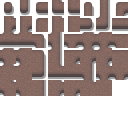
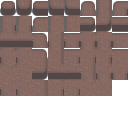
feat(tuning): плотность и размер структур — база уровня, оверрайд переживает рестарты; assets: BOLD-варианты и обновление текстур

diff --git a/src/scenes/GameScene.ts b/src/scenes/GameScene.ts
@@ -200,6 +200,10 @@ export class GameScene extends Phaser.Scene {
   private static readonly DENSITY_MIN = 0;
   private static readonly DENSITY_MAX = 2;
 
+  /** Размер структур (blobScale): линейно 1.5 (1-й, крупнее) → 0.75 (50-й, мельче) */
+  private static readonly BLOB_SCALE_MIN = 0.75;
+  private static readonly BLOB_SCALE_MAX = 1.5;
+
   /** Скорость монстров уровня (линейная прогрессия) */
   static levelSpeed(level: number): number {
     const t = (level - 1) / (GameScene.MAX_LEVEL - 1);
@@ -210,6 +214,12 @@ export class GameScene extends Phaser.Scene {
   static levelDensity(level: number): number {
     const t = (level - 1) / (GameScene.MAX_LEVEL - 1);
     return GameScene.DENSITY_MAX + (GameScene.DENSITY_MIN - GameScene.DENSITY_MAX) * t;
+  }
+
+  /** Размер структур уровня (линейная прогрессия: крупнее → мельче) */
+  static levelBlobScale(level: number): number {
+    const t = (level - 1) / (GameScene.MAX_LEVEL - 1);
+    return GameScene.BLOB_SCALE_MAX + (GameScene.BLOB_SCALE_MIN - GameScene.BLOB_SCALE_MAX) * t;
   }
 
   constructor() {
@@ -281,8 +291,8 @@ export class GameScene extends Phaser.Scene {
     // (влияют на currentLevel, ген-параметры, скорость/размер врагов)
     this.applyStoredTuning();
 
-    // Скорость и плотность задаются уровнем (линейная прогрессия);
-    // сессионные оверрайды из поп-апа поверх — отсутствуют при старте
+    // Скорость задаётся уровнем (линейная прогрессия); плотность — тоже
+    // уровнем, но оверрайд поп-апа восстанавливается из localStorage
     this.applyLevelScaling();
 
     this.totalEnemiesToSpawn = this.currentLevel * GameScene.MONSTERS_PER_LEVEL_STEP;
@@ -1928,7 +1938,8 @@ export class GameScene extends Phaser.Scene {
     );
 
     // --- Параметры генерации уровня: пересборка на лету с тем же seed ---
-    // Плотность по умолчанию задаётся уровнем; степпер — сессионный оверрайд
+    // Плотность по умолчанию задаётся уровнем (база — при смене уровня);
+    // степпер — сессионный оверрайд, переживающий рестарты и перезагрузку
     addRow('Плотность препятствий',
       () => { this.genDensity = Math.max(0, +(this.genDensity - 0.05).toFixed(2)); this.generateLevel(); },
       () => { this.genDensity = Math.min(2, +(this.genDensity + 0.05).toFixed(2)); this.generateLevel(); },
@@ -2097,8 +2108,9 @@ export class GameScene extends Phaser.Scene {
       currentLevel: this.currentLevel,
       maxEnemiesOnScreen: this.maxEnemiesOnScreen,
       enemySize: this.enemySize,
-      // enemySpeed/genDensity НЕ сохраняются: задаются уровнем,
-      // сессионные оверрайды поп-апа живут до перезагрузки страницы
+      // enemySpeed НЕ сохраняется: задаётся уровнем (сессионный оверрайд
+      // поп-апа живёт до перезагрузки страницы); genDensity — сохраняется
+      genDensity: this.genDensity,
       genBlobScale: this.genBlobScale,
       godPower: {
         lightningKillCount: GameConfig.godPower.lightningKillCount,
@@ -2129,7 +2141,19 @@ export class GameScene extends Phaser.Scene {
       this.maxEnemiesOnScreen = Math.min(Math.max(10, snap.maxEnemiesOnScreen), MAX_AGENTS);
     }
     if (typeof snap.enemySize === 'number') this.enemySize = snap.enemySize;
-    if (typeof snap.genBlobScale === 'number') this.genBlobScale = snap.genBlobScale;
+    if (typeof snap.genBlobScale === 'number') {
+      this.genBlobScale = snap.genBlobScale;
+    } else {
+      // Нет сохранённого оверрайда — базовый размер структур уровня
+      this.genBlobScale = GameScene.levelBlobScale(this.currentLevel);
+    }
+    if (typeof snap.genDensity === 'number') {
+      this.genDensity = snap.genDensity;
+    } else {
+      // Нет сохранённого оверрайда — плотность базовой (уровень только
+      // что восстановлен из снимка, см. выше)
+      this.genDensity = GameScene.levelDensity(this.currentLevel);
+    }
 
     if (snap.godPower) {
       if (typeof snap.godPower.lightningKillCount === 'number') {
@@ -2284,6 +2308,10 @@ export class GameScene extends Phaser.Scene {
   /** Выбор уровня в поп-апе: перезапуск с указанного уровня */
   private setLevel(level: number): void {
     this.currentLevel = Phaser.Math.Clamp(level, 1, GameScene.MAX_LEVEL);
+    // Новый уровень задаёт свои базовые плотность и размер структур
+    // (оверрайды поп-апа сбрасываются только при смене уровня, не при рестартах)
+    this.genDensity = GameScene.levelDensity(this.currentLevel);
+    this.genBlobScale = GameScene.levelBlobScale(this.currentLevel);
     this.restartLevel(false);
     // Прогресс уровня запоминается и для победы (nextLevel), и для поп-апа
     this.persistTuning();
@@ -2301,13 +2329,14 @@ export class GameScene extends Phaser.Scene {
    * (иначе мягкий лок); между уровнями HP базы НЕ восстанавливается
    */
   /**
-   * Скорость и плотность препятствий задаются уровнем (линейная прогрессия,
-   * см. levelSpeed/levelDensity). Вызывается при каждом входе на уровень —
-   * сессионные оверрайды поп-апа сбрасываются к базовым значениям уровня.
+   * Скорость задаётся уровнем (линейная прогрессия, см. levelSpeed).
+   * Плотность и размер структур в рестартах НЕ сбрасываются: сессионные
+   * оверрайды поп-апа переживают рестарты и перезагрузку страницы
+   * (см. TuningStore); базовые значения уровня выставляются только при
+   * смене уровня (setLevel).
    */
   private applyLevelScaling(): void {
     this.enemySpeed = GameScene.levelSpeed(this.currentLevel);
-    this.genDensity = GameScene.levelDensity(this.currentLevel);
   }
 
   private restartLevel(restoreHealth: boolean): void {

diff --git a/src/game/save/TuningStore.ts b/src/game/save/TuningStore.ts
@@ -16,13 +16,16 @@ export interface ElementTuning {
 }
 
 /** Полный снимок параметров поп-апа.
- *  enemySpeed/genDensity НЕ хранятся: задаются уровнем (сессионный оверрайд
- *  поп-апа живёт до перезагрузки страницы). */
+ *  enemySpeed НЕ хранится: задаётся уровнем (сессионный оверрайд поп-апа
+ *  живёт до перезагрузки страницы). genDensity/genBlobScale хранятся:
+ *  оверрайды переживают рестарты и перезагрузку, базовые значения
+ *  выставляются заново только при смене уровня. */
 export interface TuningSnapshot {
   spawnInterval: number;
   currentLevel: number;
   maxEnemiesOnScreen: number;
   enemySize: number;
+  genDensity: number;
   genBlobScale: number;
   godPower: {
     lightningKillCount: number;
